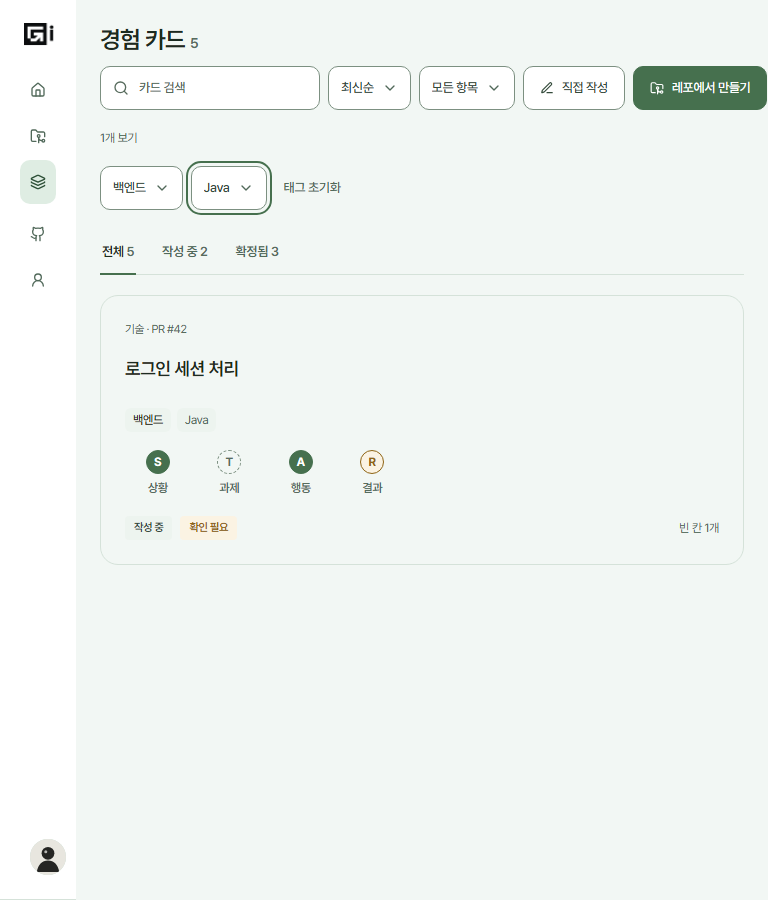
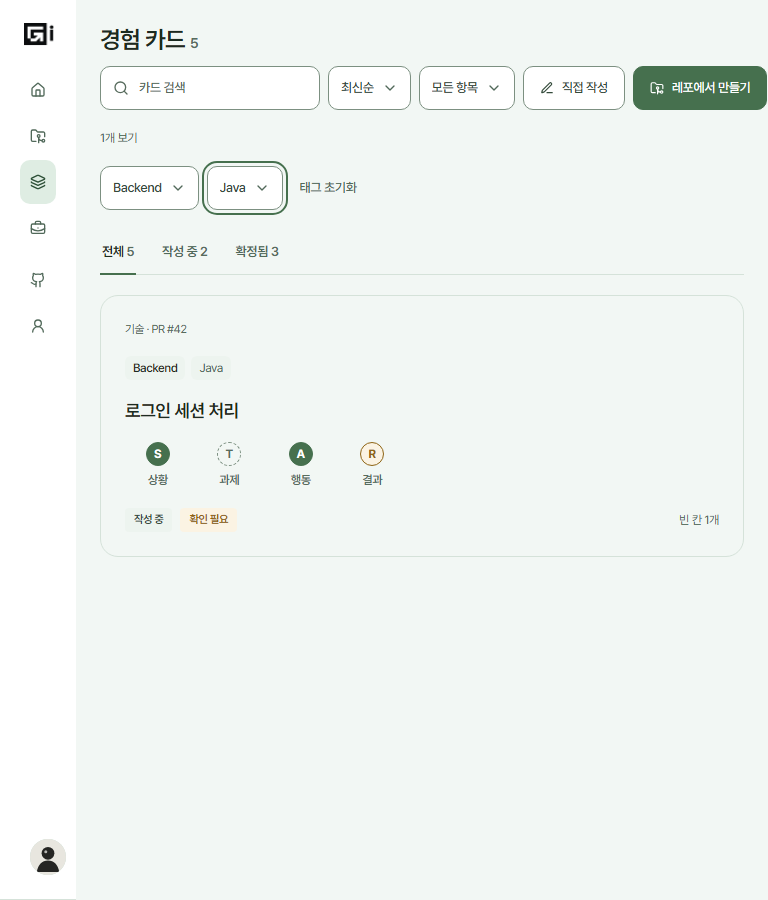
fix(fe): align card tags with review feedback

diff --git a/frontend/e2e/card-tags-339.spec.ts b/frontend/e2e/card-tags-339.spec.ts
@@ -12,7 +12,7 @@ for (const width of [320, 390, 768, 1440]) for (const theme of ['light', 'dark']
     // Untagged cards remain visible, without an invented tag or empty pill.
     await expect(cards.filter({ hasText: '팀원과 토큰 저장 위치로 갈린 경험' }).locator('.card-tags')).toHaveCount(0);
     await page.getByRole('combobox', { name: '분야', exact: true }).click();
-    await page.getByRole('option', { name: '백엔드', exact: true }).click();
+    await page.getByRole('option', { name: 'Backend', exact: true }).click();
     await expect(cards).toHaveCount(1);
     await page.getByRole('combobox', { name: '기술', exact: true }).click();
     await page.getByRole('option', { name: 'React', exact: true }).click();
@@ -20,12 +20,16 @@ for (const width of [320, 390, 768, 1440]) for (const theme of ['light', 'dark']
     await page.getByRole('combobox', { name: '기술', exact: true }).click();
     await page.getByRole('option', { name: 'Java', exact: true }).click();
     await expect(cards).toHaveCount(1);
-    await expect(cards.locator('.card-tags')).toContainText('백엔드');
+    await expect(cards.locator('.card-tags')).toContainText('Backend');
     await expect(cards.locator('.card-tags')).toContainText('Java');
+    const taggedCard = cards.first();
+    const tagBox = await taggedCard.locator('.card-tags').boundingBox();
+    const titleBox = await taggedCard.locator('.gcard__title').boundingBox();
+    expect(tagBox!.y + tagBox!.height).toBeLessThanOrEqual(titleBox!.y);
     expect(await page.evaluate(() => document.documentElement.scrollWidth)).toBeLessThanOrEqual(width);
     await page.screenshot({ path: `docs/screenshots/2026-10-21-tags/list-${width}-${theme}.png`, fullPage: true });
     await cards.click();
-    await expect(page.locator('.card-page-header .card-tags')).toHaveText(['백엔드Java']);
+    await expect(page.locator('.card-page-header .card-tags')).toHaveText(['BackendJava']);
     expect(await page.evaluate(() => document.documentElement.scrollWidth)).toBeLessThanOrEqual(width);
     await page.screenshot({ path: `docs/screenshots/2026-10-21-tags/detail-${width}-${theme}.png`, fullPage: true });
     await page.goBack();

diff --git a/frontend/src/lib/cardTags.ts b/frontend/src/lib/cardTags.ts
@@ -2,8 +2,8 @@ import { CardArea, CardTech } from '@/api/schemas';
 import type { z } from 'zod';
 
 export const areaLabels: Record<z.infer<typeof CardArea>, string> = {
-  BACKEND: '백엔드', FRONTEND: '프론트엔드', MOBILE: '모바일', DEVOPS: 'DevOps',
-  AI: 'AI', DB: '데이터베이스', TEST: '테스트', DOCS: '문서',
+  BACKEND: 'Backend', FRONTEND: 'Frontend', MOBILE: 'Mobile', DEVOPS: 'DevOps',
+  AI: 'AI', DB: 'Database', TEST: 'Testing', DOCS: 'Documentation',
 };
 export const techLabels: Record<z.infer<typeof CardTech>, string> = {
   C: 'C', CPP: 'C++', CSHARP: 'C#', JAVA: 'Java', KOTLIN: 'Kotlin', PYTHON: 'Python',

diff --git a/frontend/src/components/cards/CardTags.css b/frontend/src/components/cards/CardTags.css
@@ -1,6 +1,7 @@
 .card-tags { display: flex; flex-wrap: wrap; gap: 6px; margin: 8px 0 0; padding: 0; list-style: none; }
 .card-tags li { padding: 3px 8px; border-radius: 6px; color: var(--text-secondary); background: var(--bg-subtle); font-size: 12px; line-height: 1.5; overflow-wrap: anywhere; }
 .card-tags .card-tags__area { color: var(--text-primary); font-weight: 500; }
+.experience-item .card-tags { margin-top: 0; }
 .card-page-header__identity { min-width: 0; }
 .card-tag-filters { display: flex; flex-wrap: wrap; align-items: center; gap: 8px; }
 .card-tag-filters .select-trigger { max-width: 100%; }

diff --git a/frontend/src/features/home/HomePage.tsx b/frontend/src/features/home/HomePage.tsx
@@ -169,8 +169,8 @@ export function CardGridItem({ c, cardOrder }: { c: CardSummary; cardOrder?: str
         <span>{cardKindShort[c.kind]}{src ? ` · ${src}` : ''}</span>
         {c.period && <span>{periodLabel(c.period)}</span>}
       </div>
-      <h3 className="gcard__title">{c.title}</h3>
       <CardTags areas={c.areas} techs={c.techs} />
+      <h3 className="gcard__title">{c.title}</h3>
       <StarDots filled={filledOf(c)} low={needsReviewOf(c)} showLabels />
       <div className="experience-item__footer">
         <div className="row" style={{ gap: 8, flexWrap: 'wrap' }}>

diff --git a/frontend/docs/2026-10-21-CARD_TAGS.md b/frontend/docs/2026-10-21-CARD_TAGS.md
@@ -16,7 +16,15 @@ AI #337 → BE #338 → FE #339 순서로 머지한다. FE는 별도 draft PR로
 
 홈·목록·상세가 CardTags를 공유한다. 분야와 기술 라벨은 공통 사전에서 관리하고, 태그가 없으면 빈 배지를 만들지 않는다. 필터는 기존 Select와 테마 토큰을 사용해 모바일에서 줄을 바꾼다. 필터를 적용한 카드 순서는 기존 이전/다음 내비게이션에 그대로 전달한다.
 
-## Mock·회귀
+## PR #348 리뷰 반영
+
+- 목록과 홈이 공유하는 CardGridItem에서 출처 → 분야·기술 태그 → 제목 순으로 배치했다. 상세는 기존 제목/메타데이터 구조를 유지한다.
+- 분야 표시는 Backend, Frontend, Mobile, DevOps, AI, Database, Testing, Documentation으로 통일했다. 공통 사전을 사용하므로 태그와 필터 선택지가 같은 이름을 쓴다. 서버 enum·필터 값·저장 요청은 바꾸지 않는다.
+- 목록 태그의 추가 위쪽 margin을 제거해 카드의 공통 gap만 적용한다. 태그 없는 카드에는 빈 공간을 만들지 않는다.
+- 최신 develop의 BE 태그 구현(#354)을 충돌 없이 병합했다. 실제 배포 서버 연동 확인 전까지 Draft를 유지한다.
+- 검증: 변경 전 영어 선택지 탐색 실패를 확인한 뒤 수정했다. 전체 단위 41파일/287개, 타입 검사·빌드, 4개 화면 폭 × 두 테마의 브라우저 검사 8개를 통과했다. 태그가 제목 위에 있는지·AND 필터·태그 없는 카드·상세·가로 넘침을 확인하고 캡처를 갱신했다.
+
+## Mock·회귀 확인
 
 데이터 계층에 태그가 있는 예시 1개와 태그 없는 직접 작성/기존 카드들을 유지한다. 목록·상세 응답 모두 배열을 반환한다. 버전 수정/확정은 카드 메타데이터를 보존하며 프론트가 본문에서 태그를 추론하지 않는다.
 

diff --git a/frontend/README.md b/frontend/README.md
@@ -2,7 +2,7 @@
 
 ## 2026-10-21 카드 태그 (#339)
 
-카드 분야·기술 표시와 필터는 [태그 설계·BE #338 선행 조건](docs/2026-10-21-CARD_TAGS.md)을 참고하세요. 해당 변경은 BE #338 반영 후 머지할 별도 PR입니다.
+카드 분야·기술 표시와 필터는 [태그 설계·연동 조건·리뷰 반영](docs/2026-10-21-CARD_TAGS.md)을 참고하세요. 목록·홈은 태그를 제목 위에 표시하고 분야 이름은 영어 표기로 통일합니다. BE 구현(#354)은 최신 develop에서 반영했으며 실제 배포 서버 연동 확인은 남아 있습니다.
 
 ## 2026-10-13 후보 선택·화면 정렬
 
